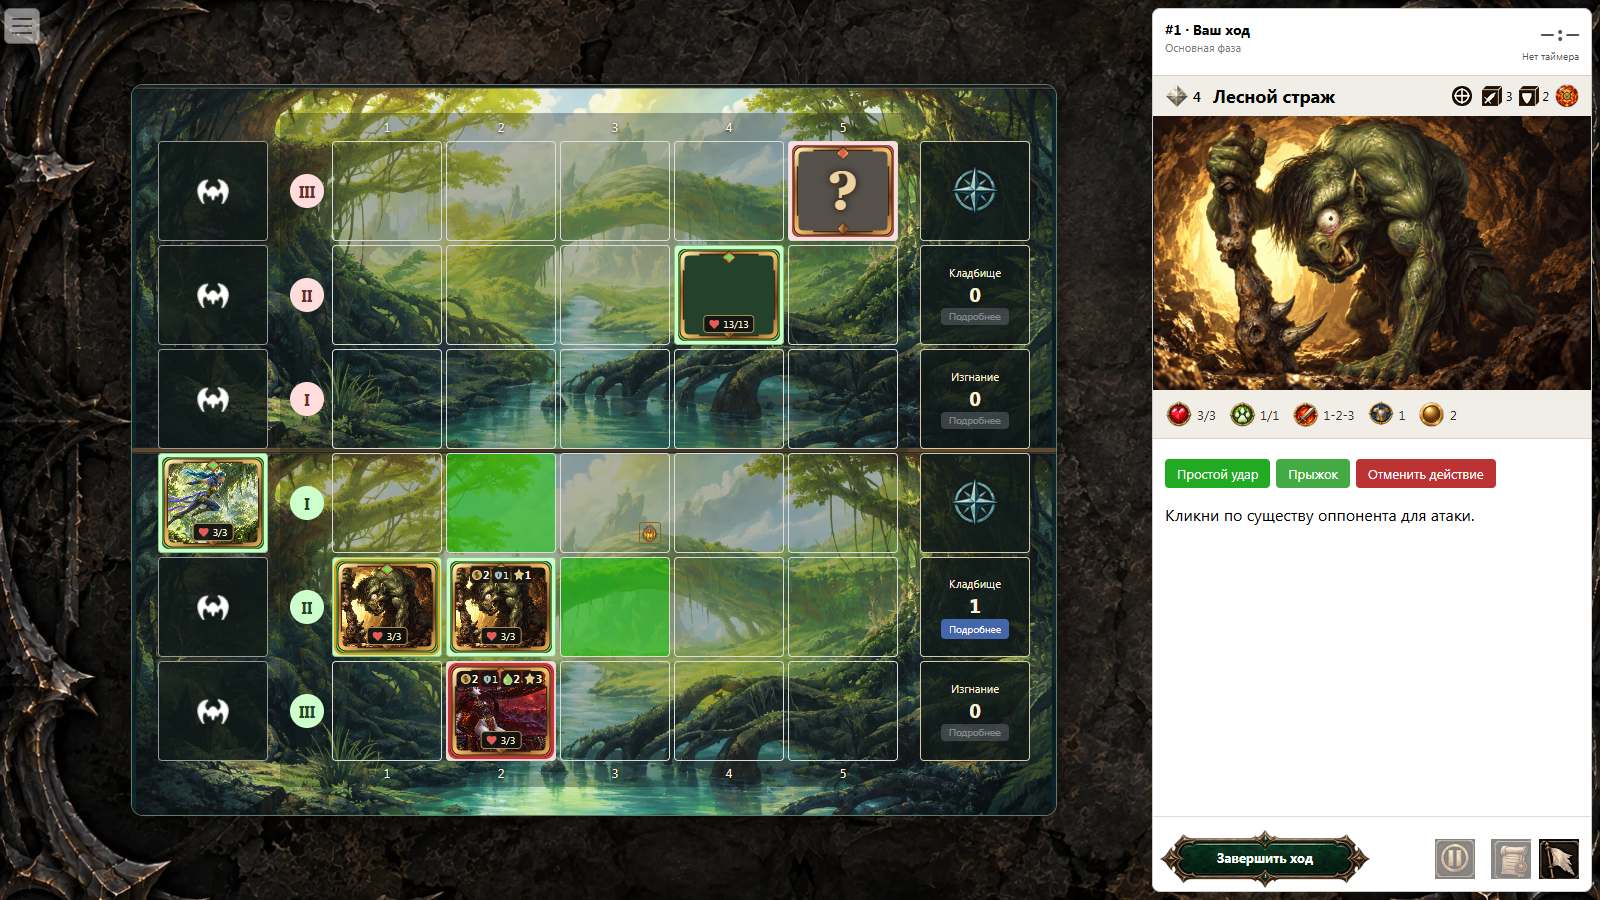
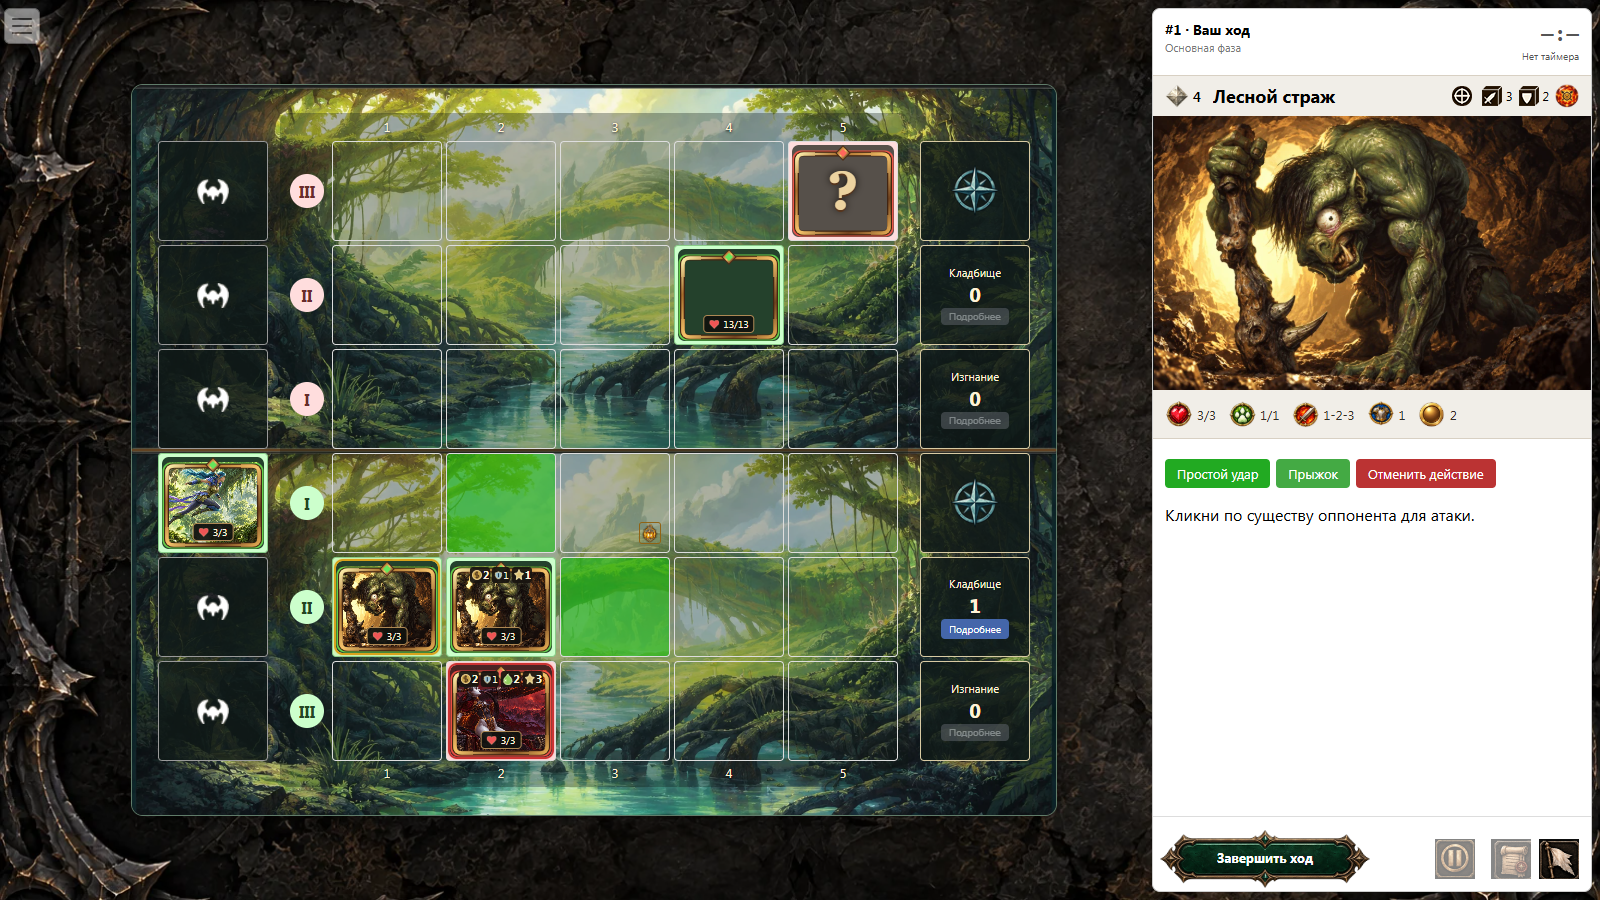
Use updated mini card frames and compact name hint

diff --git a/www/assets/js/battle-mini-card.js b/www/assets/js/battle-mini-card.js
@@ -64,7 +64,18 @@
         trigger = node;
         kind = hintKind;
         t.dataset.kind = hintKind;
-        if (hintKind === 'name') t.textContent = text;
+        if (hintKind === 'name') {
+            var plate = document.createElement('span');
+            plate.className = 'mini-nameplate';
+            ['left', 'text', 'right'].forEach(function (part) {
+                var span = document.createElement('span');
+                span.className = 'mini-nameplate__' + part;
+                if (part === 'text') span.textContent = text;
+                else span.setAttribute('aria-hidden', 'true');
+                plate.append(span);
+            });
+            t.replaceChildren(plate);
+        }
         else {
             t.replaceChildren(text.cloneNode(true));
             t.firstChild.hidden = false;
@@ -146,6 +157,12 @@
             e.stopImmediatePropagation();
             if (trigger === node && pinned) closeHint();
             else { pinned = true; show(node, 'indicator'); }
+            return;
+        }
+        if (e.target.closest('.mini-indicator')) {
+            e.preventDefault();
+            e.stopImmediatePropagation();
+            closeHint();
             return;
         }
         if (tip && tip.contains(e.target)) {

diff --git a/www/assets/css/battle-mini-nameplate.css b/www/assets/css/battle-mini-nameplate.css
@@ -1,0 +1,5 @@
+.mini-nameplate { --plate-bg: #233a24; display: inline-flex; align-items: stretch; height: 24px; max-width: min(128px, calc(100vw - 16px)); background: var(--plate-bg); color: #fff2d4; filter: drop-shadow(0 2px 3px #0009); }
+.mini-nameplate__left, .mini-nameplate__right { flex: 0 0 12px; width: 12px; height: 24px; }
+.mini-nameplate__text { min-width: 0; padding: 3px 5px; border-block: 2px solid #d9aa5c; font: 600 13px/14px Georgia, serif; white-space: nowrap; overflow: hidden; text-overflow: ellipsis; }
+.mini-nameplate__left { background: url('/assets/images/battle/mini/nameplate_left.svg') center / 12px 24px no-repeat; }
+.mini-nameplate__right { background: url('/assets/images/battle/mini/nameplate_right.svg') center / 12px 24px no-repeat; }

diff --git a/www/assets/css/battle-mini-card.css b/www/assets/css/battle-mini-card.css
@@ -39,3 +39,5 @@
 @media(prefers-reduced-motion:reduce){.battle-mini-tooltip{transition:none}}
 
 .battle-mini-tooltip[data-kind="name"]{pointer-events:none}
+
+.battle-mini-tooltip[data-kind="name"]{padding:0;border:0;border-radius:0;background:transparent;box-shadow:none;overflow:visible;max-width:min(128px,calc(100vw - 16px));font-weight:400}

diff --git a/tools/test_mini_card_stage4.php b/tools/test_mini_card_stage4.php
@@ -33,6 +33,7 @@ battleSnapshotAssert(str_contains(implode(' ',ActiveCardEffects::forCard($c,$sta
 $c->coins=2;$c->armor=1;$c->row=2;$c->col=2;$c->prop['actions']=[['type'=>'jump','key'=>'jump','name'=>'Прыжок','range'=>2]];
 $visible=LiveBattleCard::render($c,$state,'host',false,'&lt;script&gt;','3/3');
 battleSnapshotAssert(!str_contains($visible,'<script>') && !str_contains($visible,'<img src=x') && str_contains($visible,'&lt;img'),'Dynamic effects escaped');
+battleSnapshotAssert(substr_count($visible,'data-mini-hint')===1,'Only active effects have a tooltip trigger');
 $hidden=LiveBattleCard::render($c,$state,'player',true,'SUPER_SECRET_NAME','?/?');
 battleSnapshotAssert(!str_contains($hidden,'data-mini-hint')&&!str_contains($hidden,'unknown_future_stat')&&!str_contains($hidden,'mini-art'),'Hidden card contains no indicators/art/effects');
 battleSnapshotAssert(!str_contains($hidden,'SUPER_SECRET_NAME')&&!str_contains($hidden,'data-mini-name')&&!str_contains($hidden,'???')&&!str_contains($hidden,'mini-hp')&&str_contains($hidden,'mini-question'),'Hidden question has no name/HP leak');
@@ -67,7 +68,7 @@ try {
  $render=fn($ui)=>(new BattleScreen($tpl))->prepare($state,'host','host',null,$cardsInfo,$ui)['data'];
  $data=$render(['sel'=>1,'mode'=>'strike']);
  battleSnapshotAssert($before===serialize($state->toArray()),'View projection does not mutate game state');
- battleSnapshotAssert(str_contains($data['field_html'],'mini-art')&&str_contains($data['field_html'],'frame_enemy_wide'),'Actual renderer uses new image/frame');
+ battleSnapshotAssert(str_contains($data['field_html'],'mini-art')&&str_contains($data['field_html'],'frame_enemy_102x92'),'Actual renderer uses new image/frame');
  $hpCases=[];$savedHp=$c->hp;$savedMax=$c->hpMax;foreach([7,13,100] as $value){$c->hp=$value;$c->hpMax=$value;$hpCases[(string)$value]=$render(['sel'=>1,'mode'=>'strike']);}$c->hp=$savedHp;$c->hpMax=$savedMax;
  $enemy->coins=99;$enemy->armor=99;$enemy->markers['poison']['value']=99;$crowded=$render(['sel'=>1,'mode'=>'strike']);$enemy->coins=2;$enemy->armor=1;$enemy->markers['poison']['value']=2;
  $savedMods=$c->modifiers;$c->modifiers=[['stat'=>'ova','value'=>3]];$buffed=$render(['sel'=>1,'mode'=>'strike']);$c->modifiers=$savedMods;

diff --git a/src/View/Ui/LiveBattleCard.php b/src/View/Ui/LiveBattleCard.php
@@ -35,13 +35,14 @@ final class LiveBattleCard
         $nameAttr = $hidden ? '' : ' data-mini-name="' . $nameHtml . '"';
         $hp = ($hidden && $hpText === '?/?') ? '' : '<div class="mini-hp"><svg class="mini-heart" viewBox="0 0 20 18" aria-hidden="true"><path d="M10 17 2 9C-3 3 5-3 10 3 15-3 23 3 18 9Z"/></svg><span>' . self::e($hpText) . '</span></div>';
         return '<div class="' . $classes . '" data-mini-card="' . $card->instanceId . '" role="group" aria-label="' . $label . '"' . $nameAttr . '>'
-            . $art . '<img class="mini-frame" src="/assets/images/battle/mini/frame_' . $side . '_wide.svg" alt="">'
+            . $art . '<img class="mini-frame" src="/assets/images/battle/mini/frame_' . $side . '_102x92.svg" alt="">'
             . ($indicators ? '<div class="mini-indicators">' . $indicators . '</div>' : '')
             . ($hidden ? '<span class="mini-question" aria-hidden="true">?</span>' : '')
             . $hp . '</div>';
     }
     private static function indicator(string $key, int $value, string $label, string $html = ''): string
     {
+        if ($key !== 'effects') return '<span class="mini-indicator" role="img" aria-label="' . $label . '"><img src="/assets/images/battle/mini/' . $key . '_compact.svg" alt=""><span>' . $value . '</span></span>';
         return '<span class="mini-indicator" data-mini-hint tabindex="0" role="button" aria-label="' . $label . '" aria-expanded="false">'
             . '<img src="/assets/images/battle/mini/' . $key . '_compact.svg" alt=""><span>' . $value . '</span>'
             . '<span class="mini-hint-text" hidden>' . ($html ?: $label) . '</span></span>';

diff --git a/docs/minicard-stage41.md b/docs/minicard-stage41.md
@@ -65,3 +65,8 @@ Rollback прежней карточки: BERSERK_LEGACY_MINICARDS=1 для вс
 - Имя появляется в центре карты, через1500ms плавно исчезает за250ms. Увеличение сохраняется, пока курсор на карте; уход курсора по-прежнему возвращает исходный размер. При клавиатурном фокусе имя не исчезает по таймеру.
 - Подсказки центрированы по горизонтали. Список эффектов смещается ниже верхних показателей, чтобы не перекрывать иконку повторного клика. Название не участвует в hit testing.
 - Проверены сохранение zoom после исчезновения имени и отсутствие перехвата кликов.
+
+## Новые ассеты и подсказка названия
+
+Подключены предоставленные frame_friendly_102x92.svg и frame_enemy_102x92.svg; frame_neutral_102x92.svg сохранён рядом для нейтрального оформления без выдумывания новых игровых состояний. Подсказка имени составлена из nameplate_left.svg/nameplate_right.svg и адаптированного nameplate_center.css (battle-mini-nameplate.css). Максимальная ширина128px, одна строка, text-overflow:ellipsis; полное имя остаётся в доступных атрибутах карты и InfoPanel. Подсказки монет/брони/яда удалены, показатели и aria-label сохранены; клики по индикаторам не запускают игровое действие. Подсказка активных эффектов сохранена. Проверки PHP и browser пройдены; скриншоты обновлены.
+
